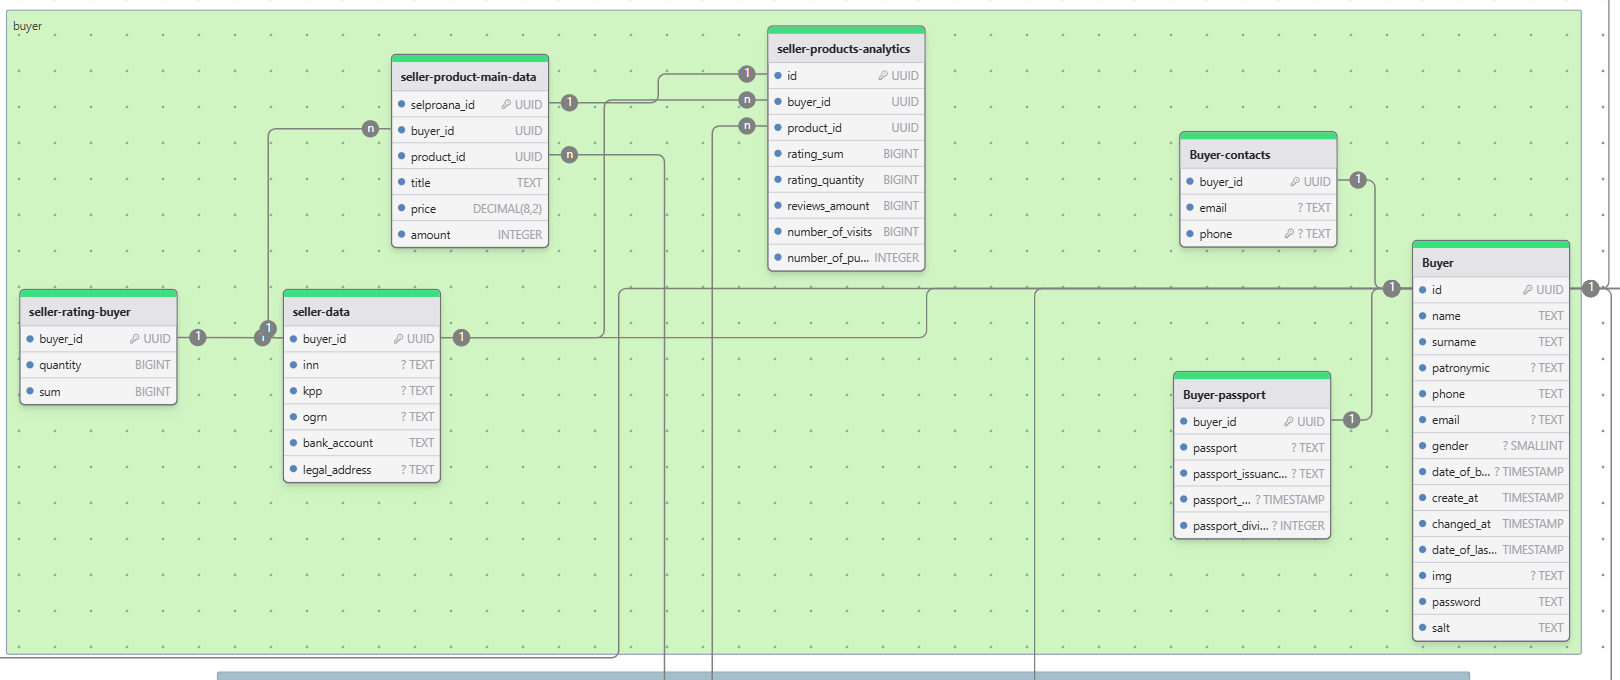
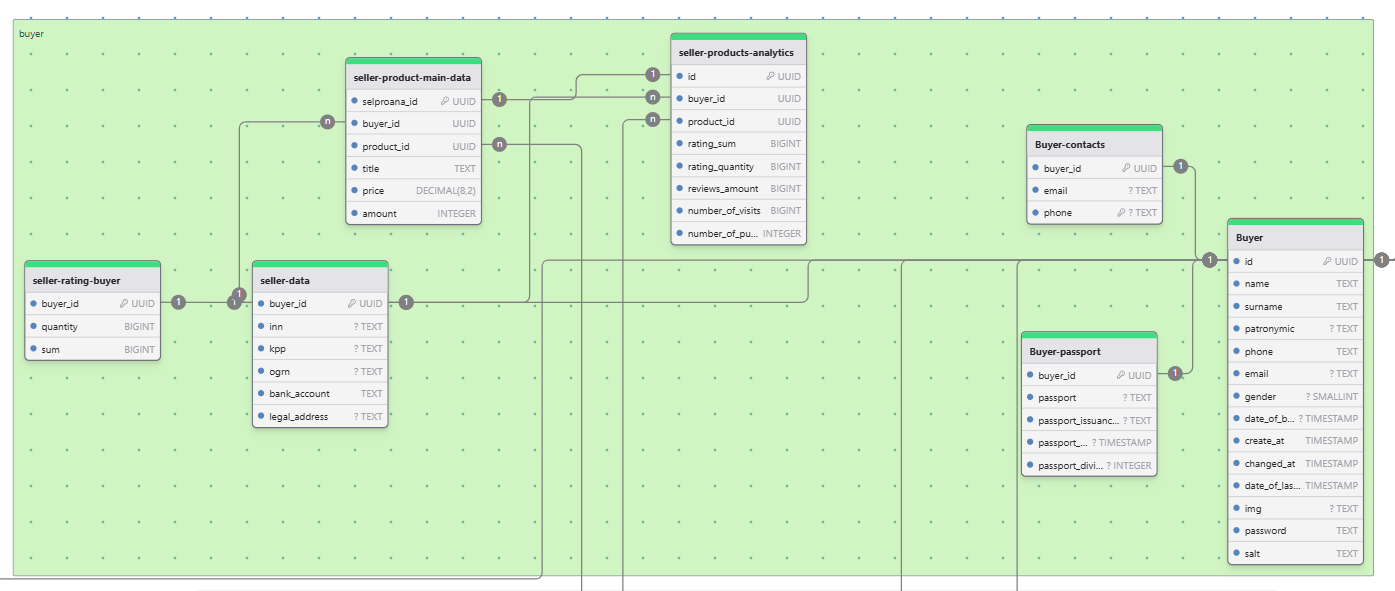
[fix] Логическая схема БД (рекомендации)

diff --git a/README.md b/README.md
@@ -779,7 +779,7 @@ Anycast позволяет оптимизировать маршрутизаци
 
 ## 5. Логическая схема БД <a name="логическая-схема-бд"></a>
 
-Полную версию схемы бд можно посмотреть по ссылке [https://www.drawdb.app/editor?shareId=bb55c722dd7178259de6a0d6dae28be4](https://www.drawdb.app/editor?shareId=bb55c722dd7178259de6a0d6dae28be4)
+Полную версию схемы бд можно посмотреть по ссылке [https://www.drawdb.app/editor?shareId=3f7cd5823bde8e7836350d79c69058c4](https://www.drawdb.app/editor?shareId=3f7cd5823bde8e7836350d79c69058c4)
 
 Либо на изображении и приближенных фрагментах, указанных ниже:
 
